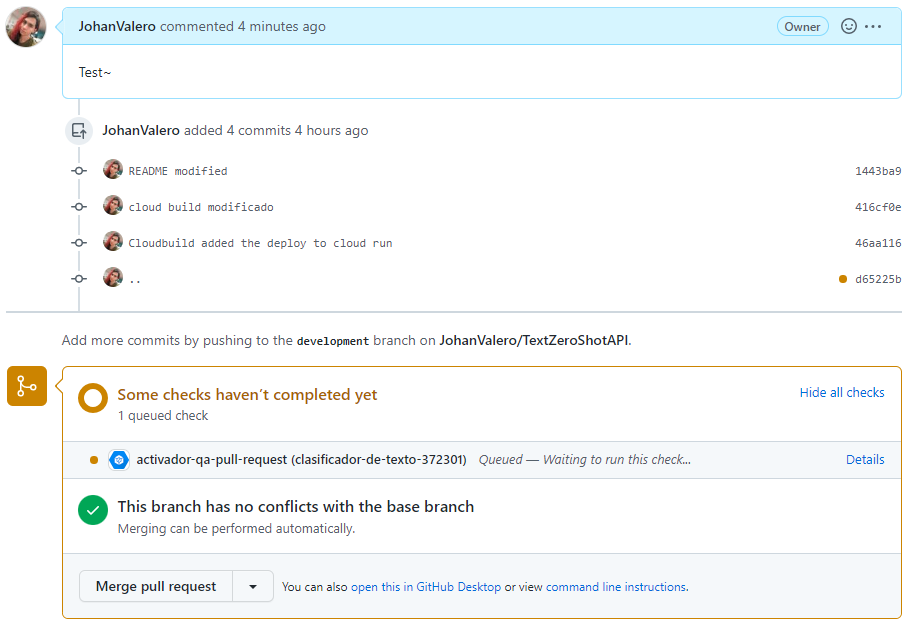
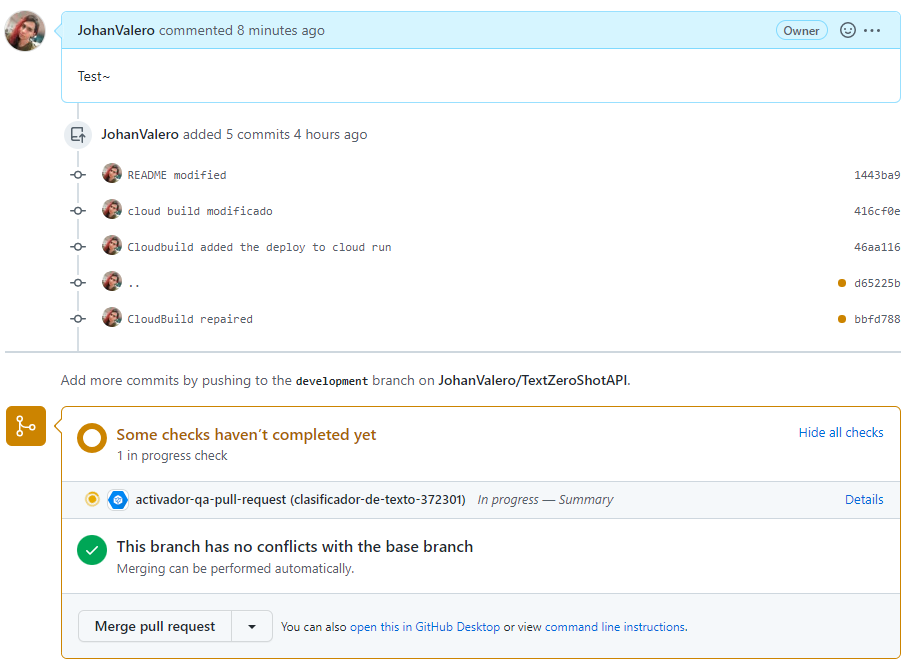
Se devide cloud-build qa en 2 archivos, uno para deploy en push

diff --git a/README.md b/README.md
@@ -167,6 +167,8 @@ Desplegar aplicaciones en la nube tiene varias ventajas:
   + Se crean dos repositorios:
     + Se crea el repositorio Docker "app-clasificador-qa".
     + Se crea el repositorio Docker "app-clasificador-prod".
+    + Se ingresa en Cloud Shell (CLI de gcloud) y se ejecuta el comando: `gcloud auth configure-docker us-central1-docker.pkg.dev`. Esto es necesario para configurar el auxiliar de credenciales para el dominio de Artifact Registry asociado a la ubicación de este repositorio.
+      + Si no se realiza este paso, entonces no se publicarán las imagenes docker.
 + Se ingresa en `Cloud Build`:
   + Se ingresa en `Activadores/Triggers` y se escoge una región.
   + Se crea un `activador` (disparador/trigger) nombrado "activador-qa-pull-request".
@@ -174,5 +176,8 @@ Desplegar aplicaciones en la nube tiene varias ventajas:
     + Se asigna el evento "Solicitud de extracción" para ejecutar durante el "pull request".
     + Se asigna en "Rama base" el valor "^qa$", para activar la compilación automática durante los Pull request de la rama.
     + Se asgina "Ubicación del archivo de configuración de Cloud Build" el valor de `gcp-cloudbuild-qa.yaml`.
+    + Al enviar un Pull request de la rama "Development" a la rama "qa" se generará el deploy automático:
+    + [![](https://url.jpg "Pull request en despliegue automático.")
+    + [![](https://url.jpg "Aprobación en Cloud Build.")
 
 > Nota: Se recomienda usar la misma región para todos los despliegues en nube. Este tutorial por default fue hecho en "us-central1", si se cambia se deberá modificar los archivos `gcp-cloudbuild-qa.yaml` y `gcp-cloudbuild-prod.yaml`.
